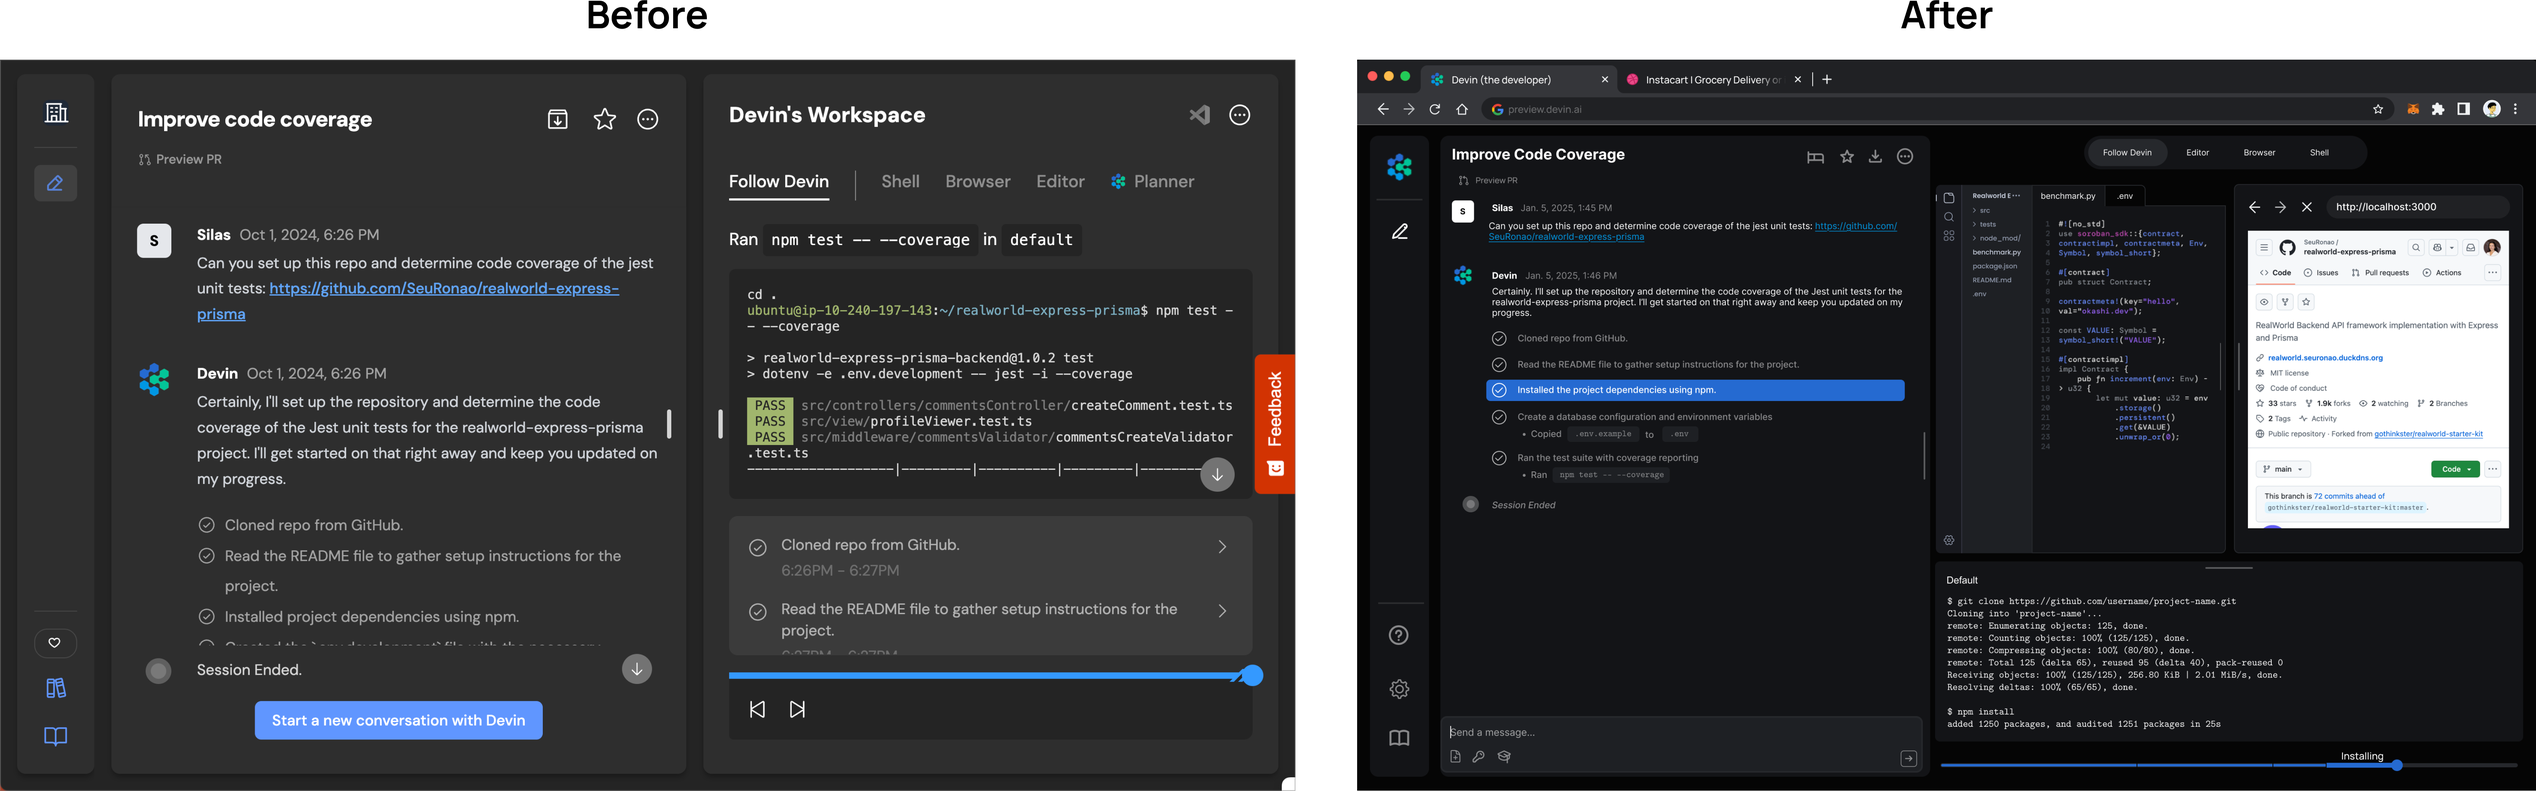
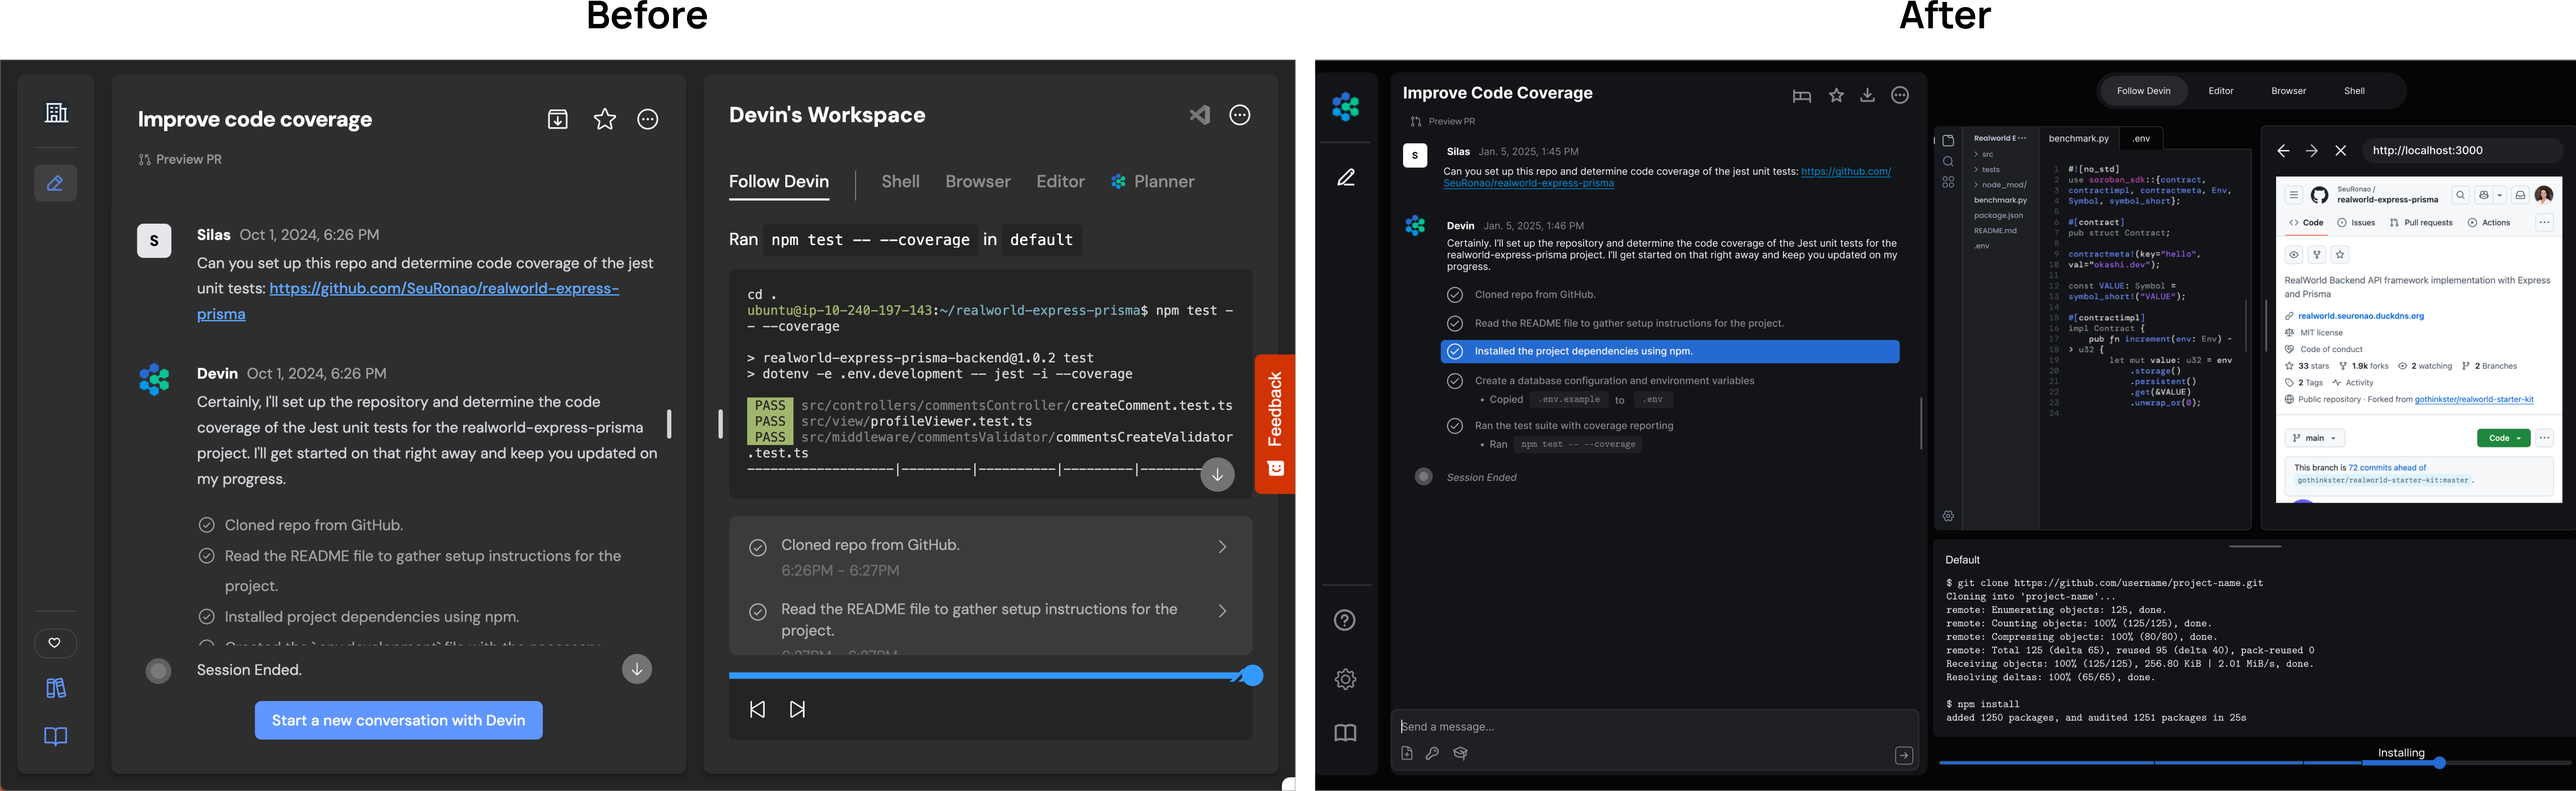
final touches

diff --git a/devin.html b/devin.html
@@ -38,10 +38,12 @@
 
     <main>
         <!-- <h1 class="devin">Devin</h1> -->
+         
         <img src="assets/devin/devin-logo.png" class="devin-logo">
         <p class="center bold">Devin, iterated.</p>
 
-        <img src="assets/devin/compare.png" class="devin">
+        <img src="assets/devin/compare.png" class="devin-big">
+        <p> </p>
         
         <p class="bold devin">PRODUCT IMPROVEMENT PROCESS</p>
         <p>I gathered as much publically available information on Devin’s UI as possible, including (but not limited to) dev docs, demos, and user testimonies/videos. I identified the following three preliminary areas of improvement for Devin’s current user interface.</p>

diff --git a/styles.css b/styles.css
@@ -294,10 +294,12 @@ img.devin {
     max-width: 200%;
     margin-left: calc(-50vw + 50%);
     margin-right: calc(-50vw + 50%);
-    /* position: relative; */
-    /* left: 50%; */
-    /* right: 50%; */
-    /* transform: translateX(-50%); */
+}
+
+img.devin-big {
+    max-width: 260%;
+    margin-left: calc(-50vw + 47%);
+    margin-right: calc(-50vw + 50%);
 }
 
 h1.devin {
